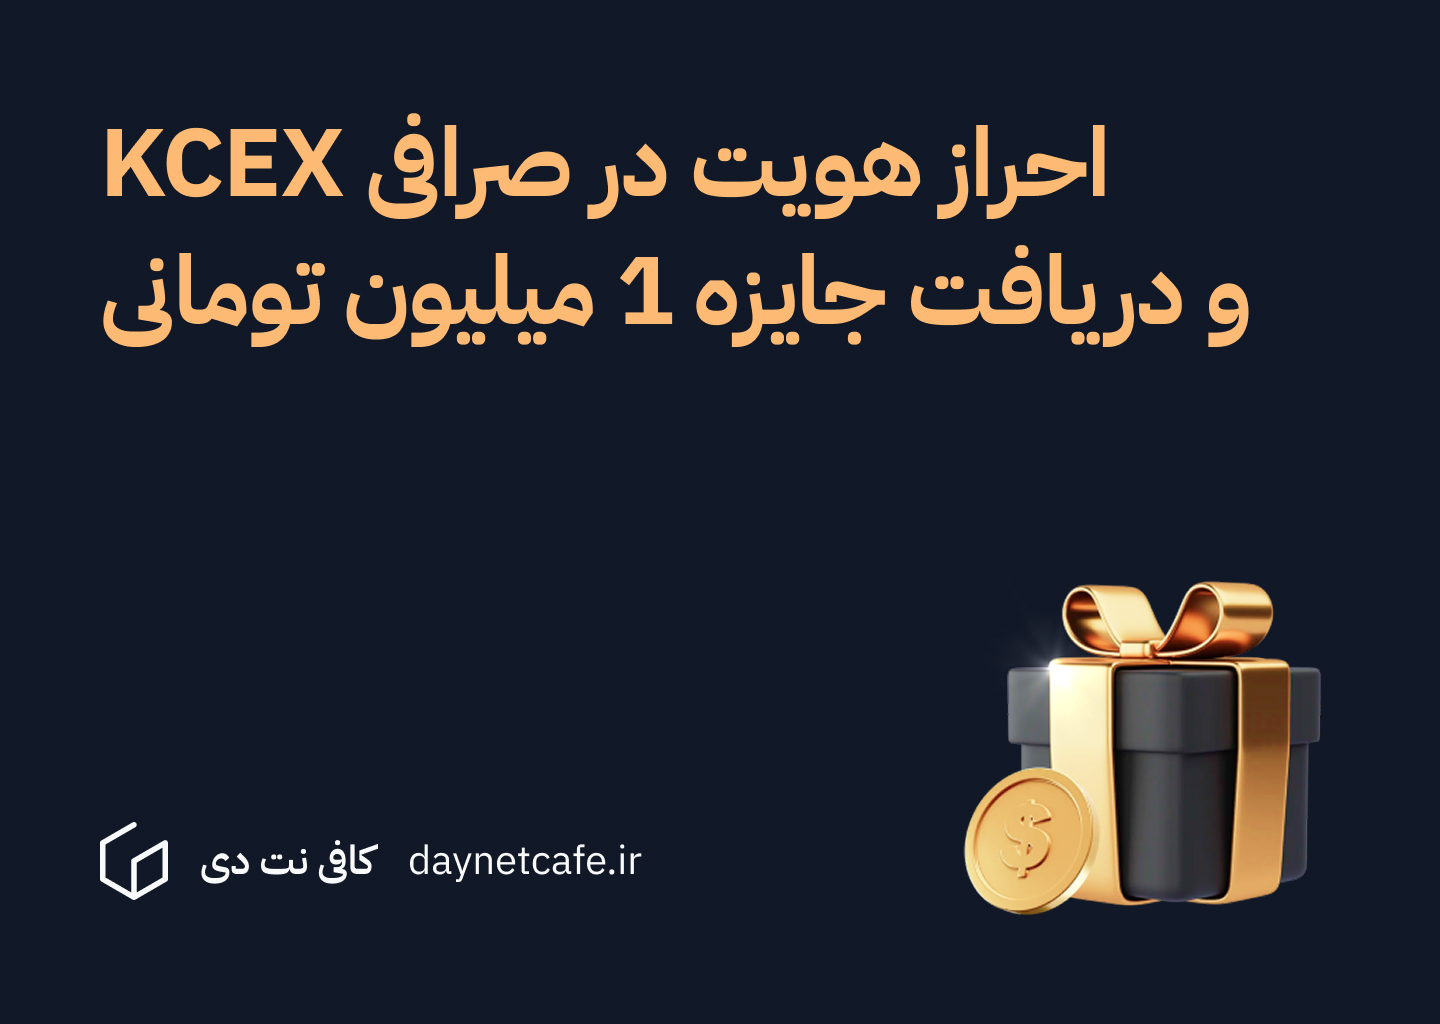
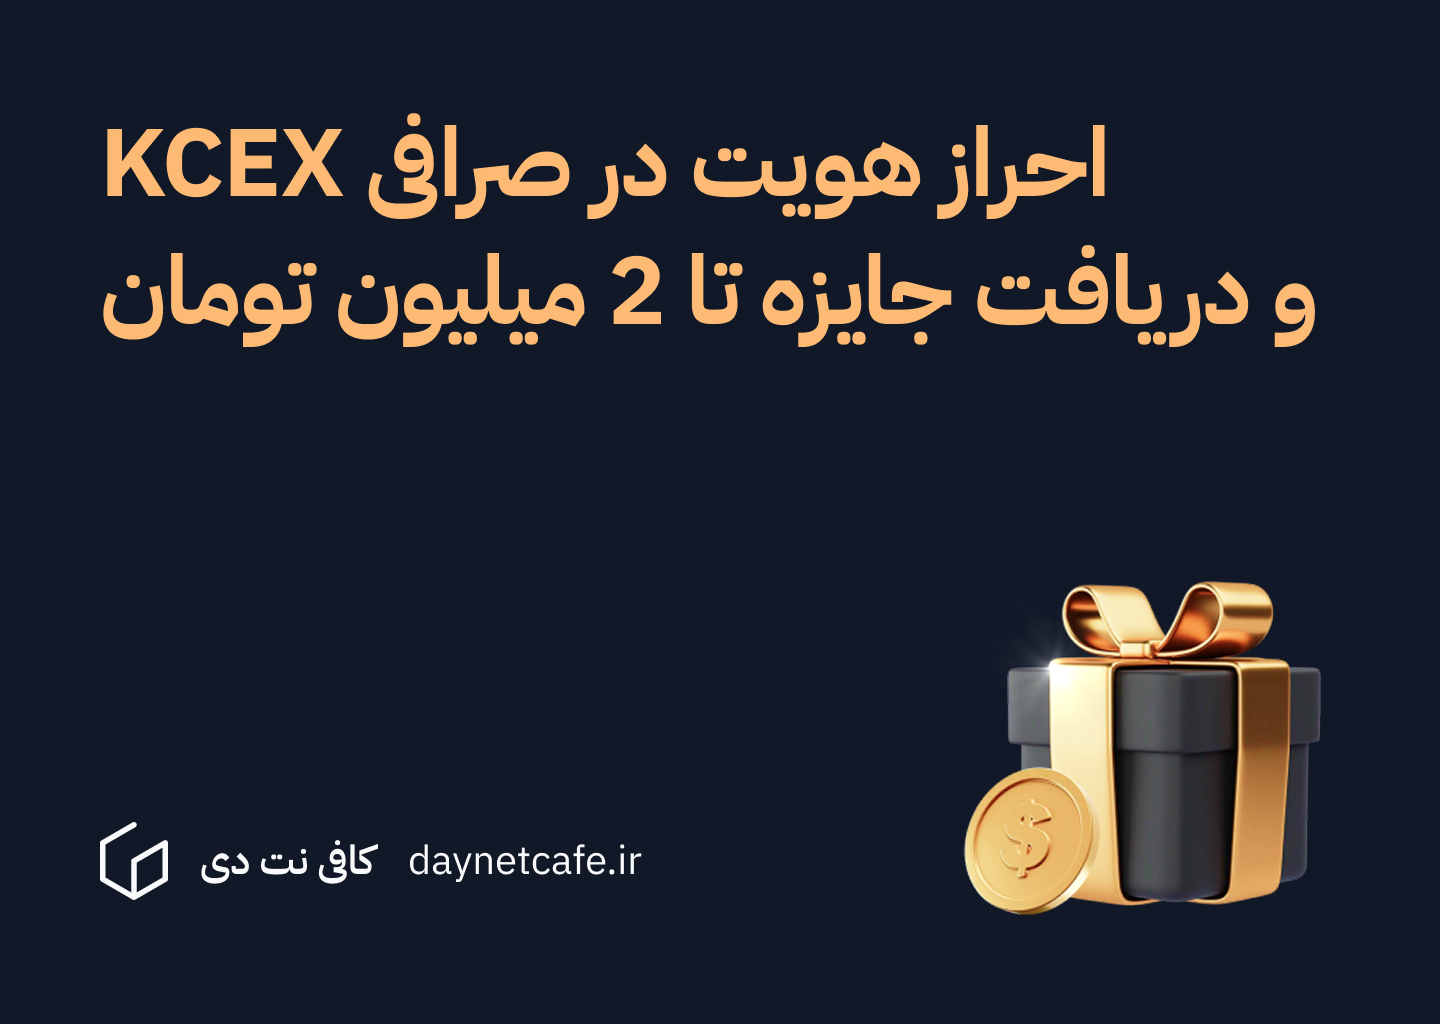
updated kcex

Changed region(s): [[0.0625, 0.2188, 0.9375, 0.3438]]

diff --git a/src/content/services/kcex-signup.md b/src/content/services/kcex-signup.md
@@ -1,7 +1,7 @@
 ---
 aliases:
-  - احراز هویت در صرافی کی سی اکس و دریافت جایزه 1 میلیون تومانی
-description: در کافی نت دی برایتان در صرافی کی سی اکس ثبت نام و احراز هویت انجام می دهیم و جایزه یک میلیون تومانی این صرافی را برایتان نقد می کنیم.
+  - احراز هویت در صرافی کی سی اکس و دریافت جایزه عضویت تا 2 میلیون تومان
+description: در کافی نت دی برایتان در صرافی کی سی اکس ثبت نام و احراز هویت انجام می دهیم و جایزه تا دو میلیون تومان این صرافی را برایتان نقد می کنیم.
 date: 2025-02-24
 tags:
   - خدمت
@@ -14,7 +14,7 @@ price: 10000000
 
 صرافی kcex یا کی سی اکس، یک صرافی جدید در آفریقای جنوبی است که به کاربران جدید که احراز هویت انجام دهند جایزه می دهد. 
 
-در کافی نت دی برایتان در صرافی کی سی اکس ثبت نام و احراز هویت انجام می دهیم و جایزه یک میلیون تومانی این صرافی را برایتان نقد می کنیم.
+در کافی نت دی برایتان در صرافی کی سی اکس ثبت نام و احراز هویت انجام می دهیم و جایزه تا دو میلیون تومان این صرافی را برایتان نقد می کنیم.
 
 ![](../media/Pasted%20image%2020250224104830.png)
 
@@ -24,7 +24,7 @@ price: 10000000
 
 دریافت این جایزه و نقد کردن آن امری دشوار هست چون که با کوچکترین اشتباهی که انجام می دهید حسابتان در این صرافی را بلوکه می کند. 
 
-همه مبلغ این 70 دلار را هم شاید نتوان برداشت کرد. بنابراین در صورتی که در کافی نت دی بتوانیم برایتان مبلغ جایزه این صرافی را برداشت کنیم، به شما مبلغ 1 میلیون تومان پاداش خواهیم داد. 
+همه مبلغ این 70 دلار را هم شاید نتوان برداشت کرد. بنابراین در صورتی که در کافی نت دی بتوانیم برایتان مبلغ جایزه این صرافی را برداشت کنیم، به شما مبلغ تا 2 میلیون تومان پاداش خواهیم داد. 
 
 ## مراحل ثبت نام و احراز هویت
 
